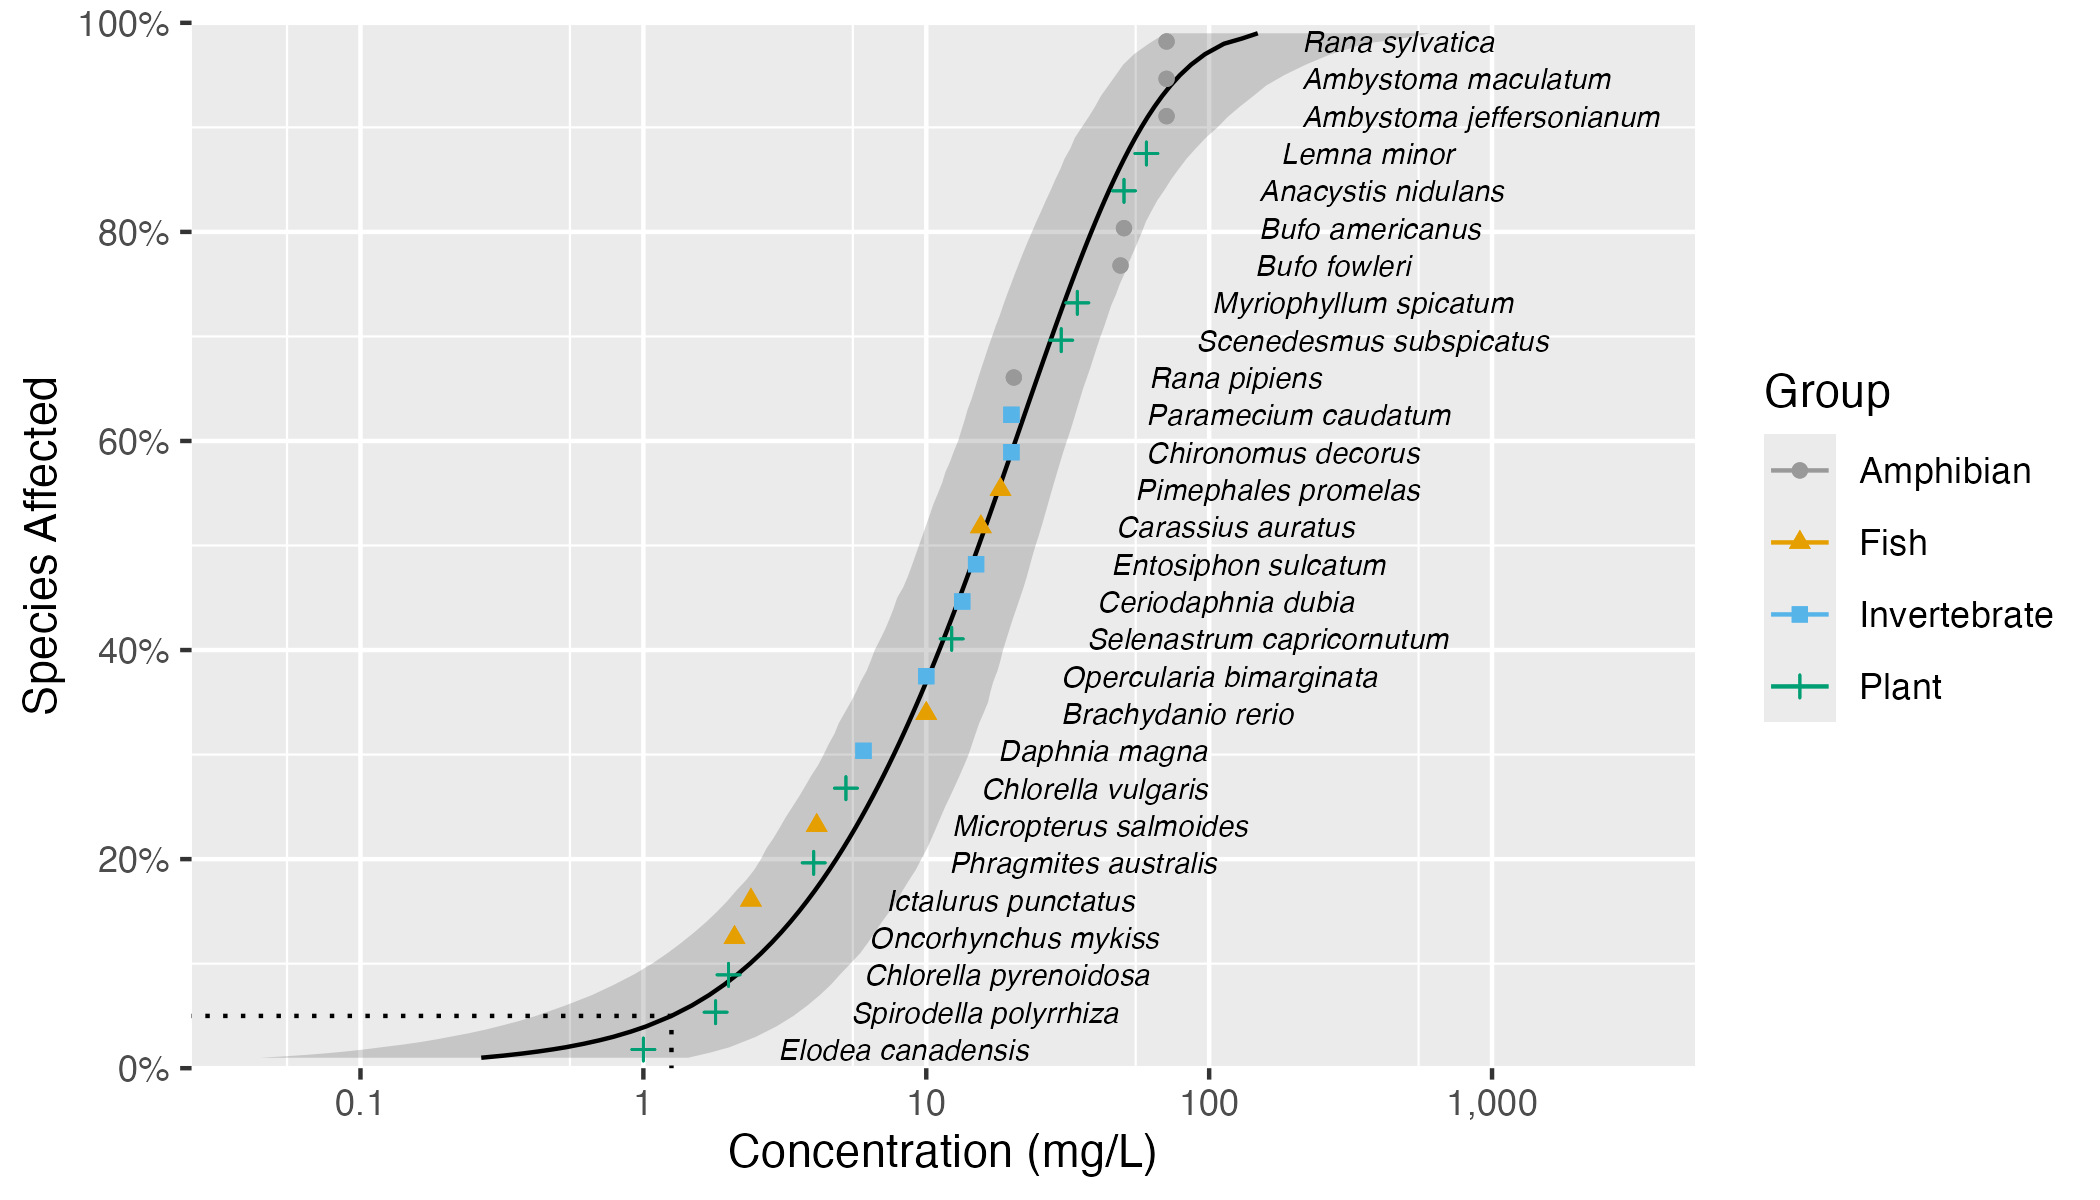
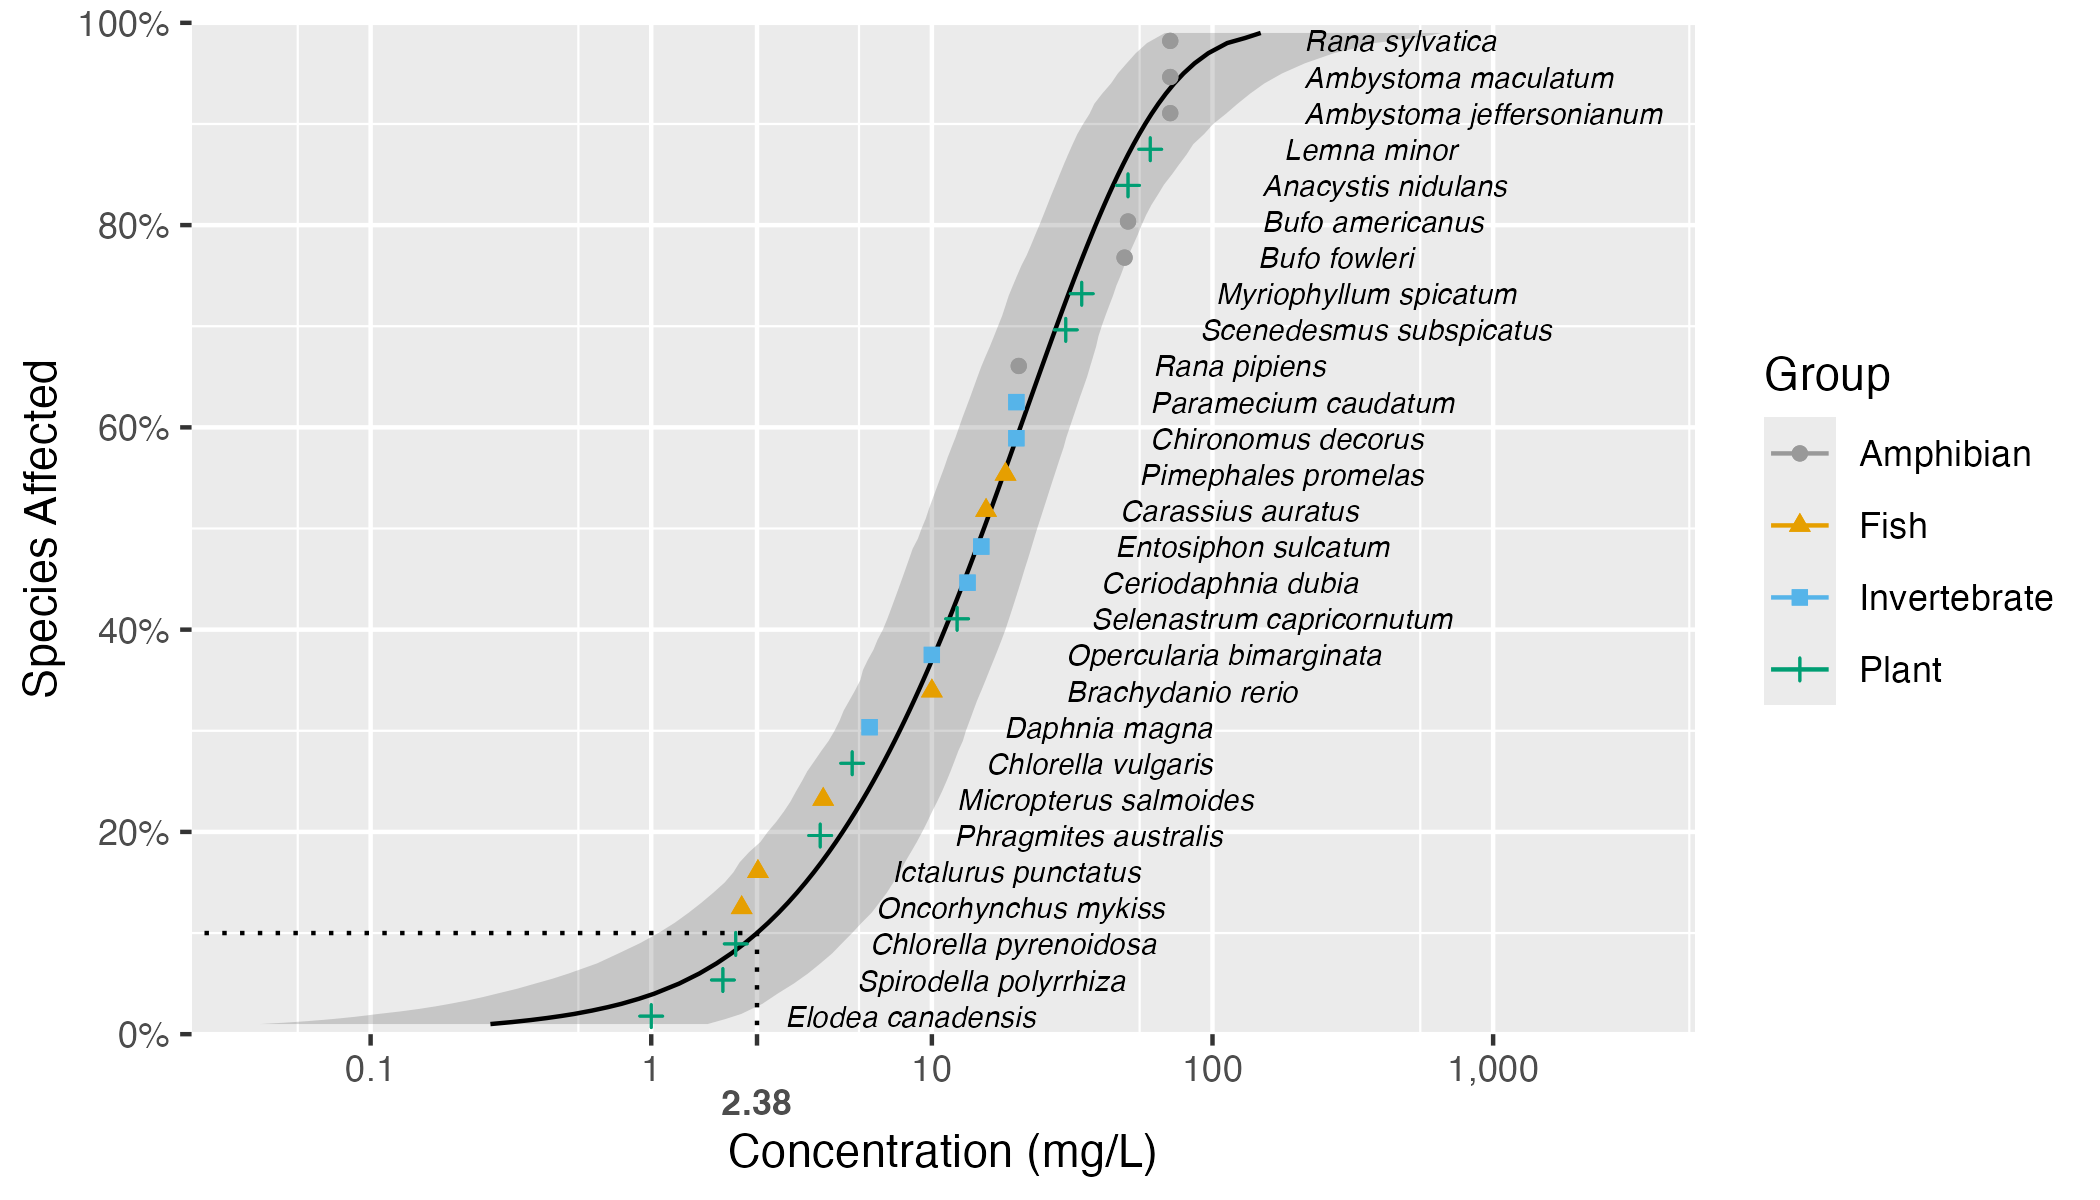
update data and plot

diff --git a/paper/paper.md b/paper/paper.md
@@ -26,7 +26,7 @@ affiliations:
   name: Environmetrics Australia, Australia
 - index: 6
   name: Simon Fraser University, Canada
-date: 2 May 2024
+date: 10 December 2024
 bibliography: paper.bib
 tags:
   - ssdtools
@@ -101,16 +101,16 @@ To estimate the values using the original weighted arithmetic mean set `multi_es
 ## Confidence Intervals
 
 `ssdtools` generates confidence intervals for $\text{HC}_x$ and $\text{HP}_u$ values via bootstrapping.
-By default all versions of `ssdtools` use parametric bootstrapping for non-censored data as it has better coverage than the equivalent non-parametric approach used in other SSD modelling software such as `Burrlioz` [see @fox_methodologies_2022].
+By default all versions of `ssdtools` use parametric bootstrapping for non-censored data as it has better coverage than the equivalent non-parametric approach used in some other SSD modelling software such as `Burrlioz` [see @fox_methodologies_2022].
 The first two versions of `ssdtools` both calculated the model averaged CI from the weighted arithmetic mean of the CIs of the individual distributions.
 Unfortunately, this approach has recently been shown to have poor coverage [@fox_methodologies_2024] and is inconsistent with the *inversion principle*.
 
 Consequently, v2 also offers a parametric bootstrap method for non-censored data that uses the joint cdf to generate data before refitting the original distribution set and solving for the newly estimated joint cdf [see details in @fox_methodologies_2024].
-This so-called "multi" method can be implemented with (`ci_method = multi_free`) and without (`ci_method = multi_fixed`) re-estimation of the model weights.
-In order to implement the "multi" method of bootstrapping described above, v2 also provides the probability density (`ssd_pmulti()`), cumulative distribution (`ssd_qmulti()`) and random generation (`ssd_rmulti()`) functions for multiple distributions.
+This so-called 'multi' method can be implemented with (`ci_method = "multi_free"`) and without (`ci_method = "multi_fixed"`) re-estimation of the model weights.
+In order to implement the 'multi' method of bootstrapping described above, v2 also provides the probability density (`ssd_pmulti()`), cumulative distribution (`ssd_qmulti()`) and random generation (`ssd_rmulti()`) functions for multiple distributions.
 
-However, although the "multi" method has good coverage it is computationally slow.
-To overcome this limitation, the default method (`ci_method = weighted_samples`) provided by the current update is a faster heuristic based on taking bootstrap samples from the individual distributions proportional to their weights [@fox_methodologies_2024].
+However, although the 'multi' method has good coverage it is computationally slow.
+To overcome this limitation, the default method (`ci_method = "weighted_samples"`) provided by the current update is a faster heuristic based on taking bootstrap samples from the individual distributions proportional to their weights [@fox_methodologies_2024].
 
 ## Plotting 
 
@@ -159,20 +159,19 @@ autoplot(fits)
 
 ![Species sensitivity distributions for the six default distributions with the Boron species concentration data.](autoplot.png){height="4in"}
 
-The model averaged cdf with 95% CIs (with the model averaged $\text{HC}_5$ indicated by a dotted line) can be plotted using:
+The model averaged cdf with 95% CIs (with the model averaged $\text{HC}_{10}$ indicated by a dotted line) can be plotted using:
 
 ```r
 predictions <- ssdtools::predict(fits, ci = TRUE)
-library(ggplot2)
-ssd_plot(ssddata::ccme_boron, predictions,
+ssd_plot(ssddata::ccme_boron, predictions, 
+         hc = 0.1, xlimits = c(NA, 3000),
          shape = "Group", color = "Group", label = "Species",
          xlab = "Concentration (mg/L)"
 ) +
-  expand_limits(x = 3000) +
   scale_color_ssd()
 ```
 
-![Model averaged species sensitivity distribution with 95% CI based on the six default distributions with Boron species concentration data. The $\text{HC}_5$ value is indicated by the dotted line.](ssd_plot.png){height="4in"}
+![Model averaged species sensitivity distribution with 95% CI based on the six default distributions with Boron species concentration data. The $\text{HC}_{10}$ value is indicated by the dotted line.](ssd_plot.png){height="4in"}
 
 # Acknowledgements
 
